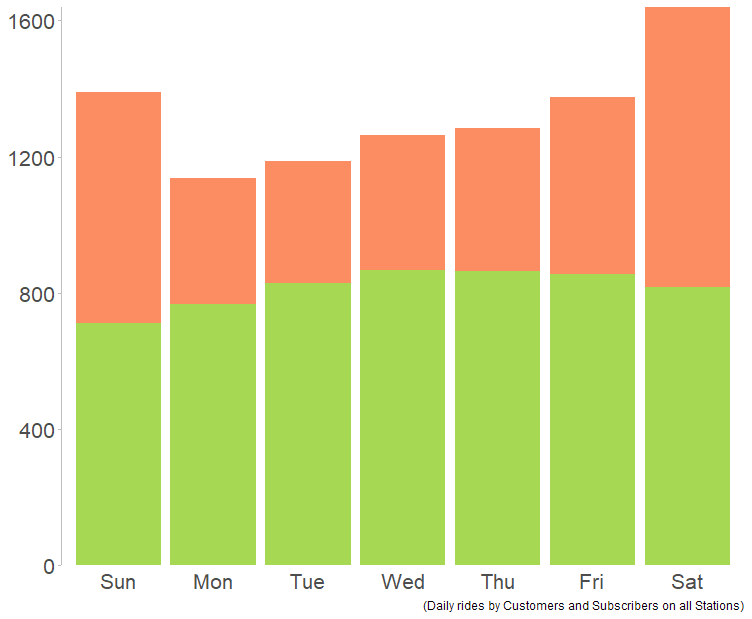
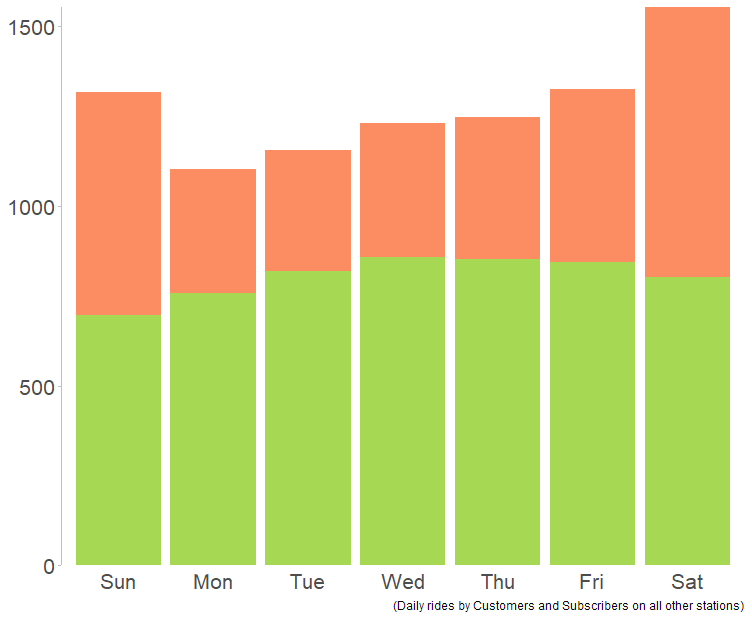
project

diff --git a/content/projects/Bike_Sharing_2020/Bike_Sharing_2020.md b/content/projects/Bike_Sharing_2020/Bike_Sharing_2020.md
@@ -91,7 +91,19 @@ In the above map, some very useful information is revealed:
 
 * Inside the popup window for many of the stations, its name is also listed as the top destination. Analyzing the data reveals that in fact most frequent routes are those that end on themselves, suggesting that users in those neighborhoods frequently use the service for short nearby traveling. To further establish this hypothesis, we return to our original data and analyze it further. 
   * Out of *3.3 million* rides  *356 thousand* started and ended at the same station, making them **10%** of all the rides taken.
+  
+    ![Top Routes by Customers](projects/Bike_Sharing_2020/sorted_by_customers.png)
+    *The above table, sorted in ascending order of rides taken by customers, show that the top routes are those that end at the starting station.*
+  
+    
+  
+    ![Top Routes by Subscribers](projects/Bike_Sharing_2020/sorted_by_Subscribers.png)
+  
+    *The above table, sorted in ascending order of rides taken by subscribers, also offers the same result.*
+  
   * Average time for these rides is **49 minutes**.
+  
+    
 
 ### User Distribution Map
 
@@ -134,14 +146,14 @@ Sniffing the above map, we find some insightful points:
   
   * Our earlier hypothesis gains merit as we plot this data, calculating daily rides.
   
-    ![Focus Cluster on map](projects/Bike_Sharing_2020/daily_rides_three_stations.png)
+    ![Daily rides at three stations](projects/Bike_Sharing_2020/daily_rides_three_stations.png)
   
     The number of subscribers visiting these stations(in green) remains the same throughout the week, and the number is much smaller than those of casual riders(in orange), whose activity nearly triples on weekends. 
   
   
     This can also be compared with average daily trips on all other stations.
   
-    ![Focus Cluster on map](projects/Bike_Sharing_2020/tday_all_stations.png)
+    ![Daily rides at all other stations](projects/Bike_Sharing_2020/tday_all_stations.png)
   
     As can be seen here, the result is significantly different for all other stations, where daily subscribers are far greater in number than the irregular customers. 
 
